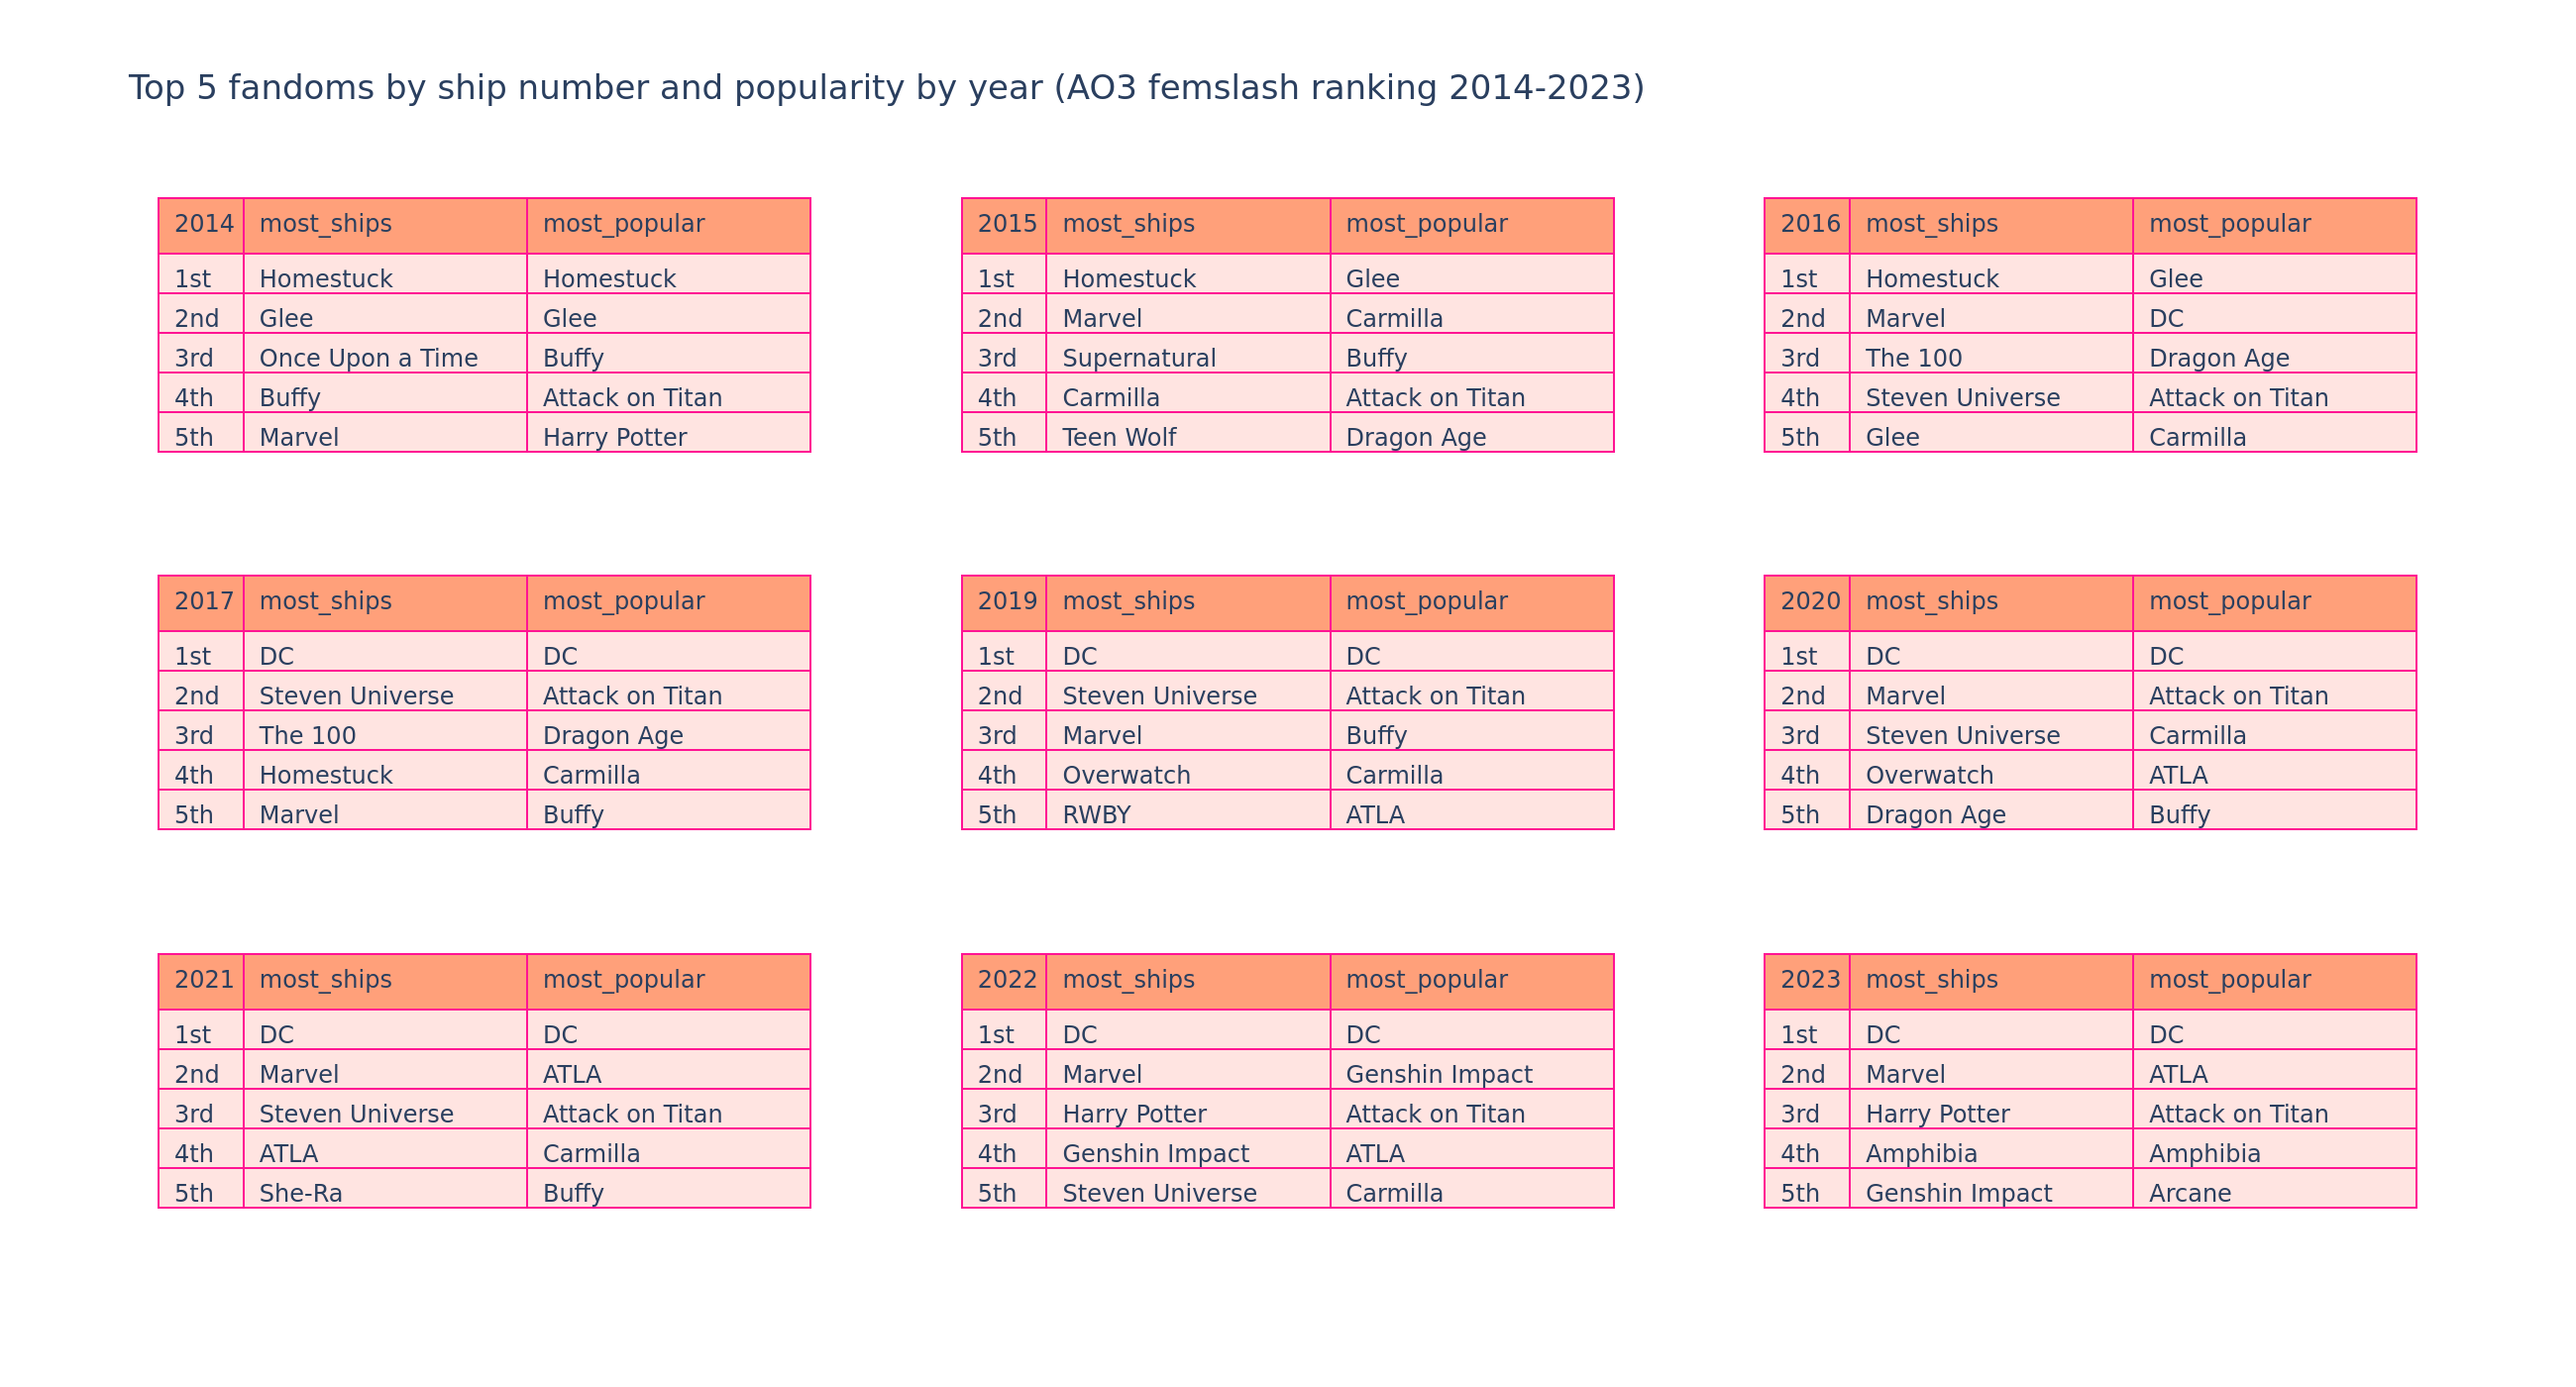
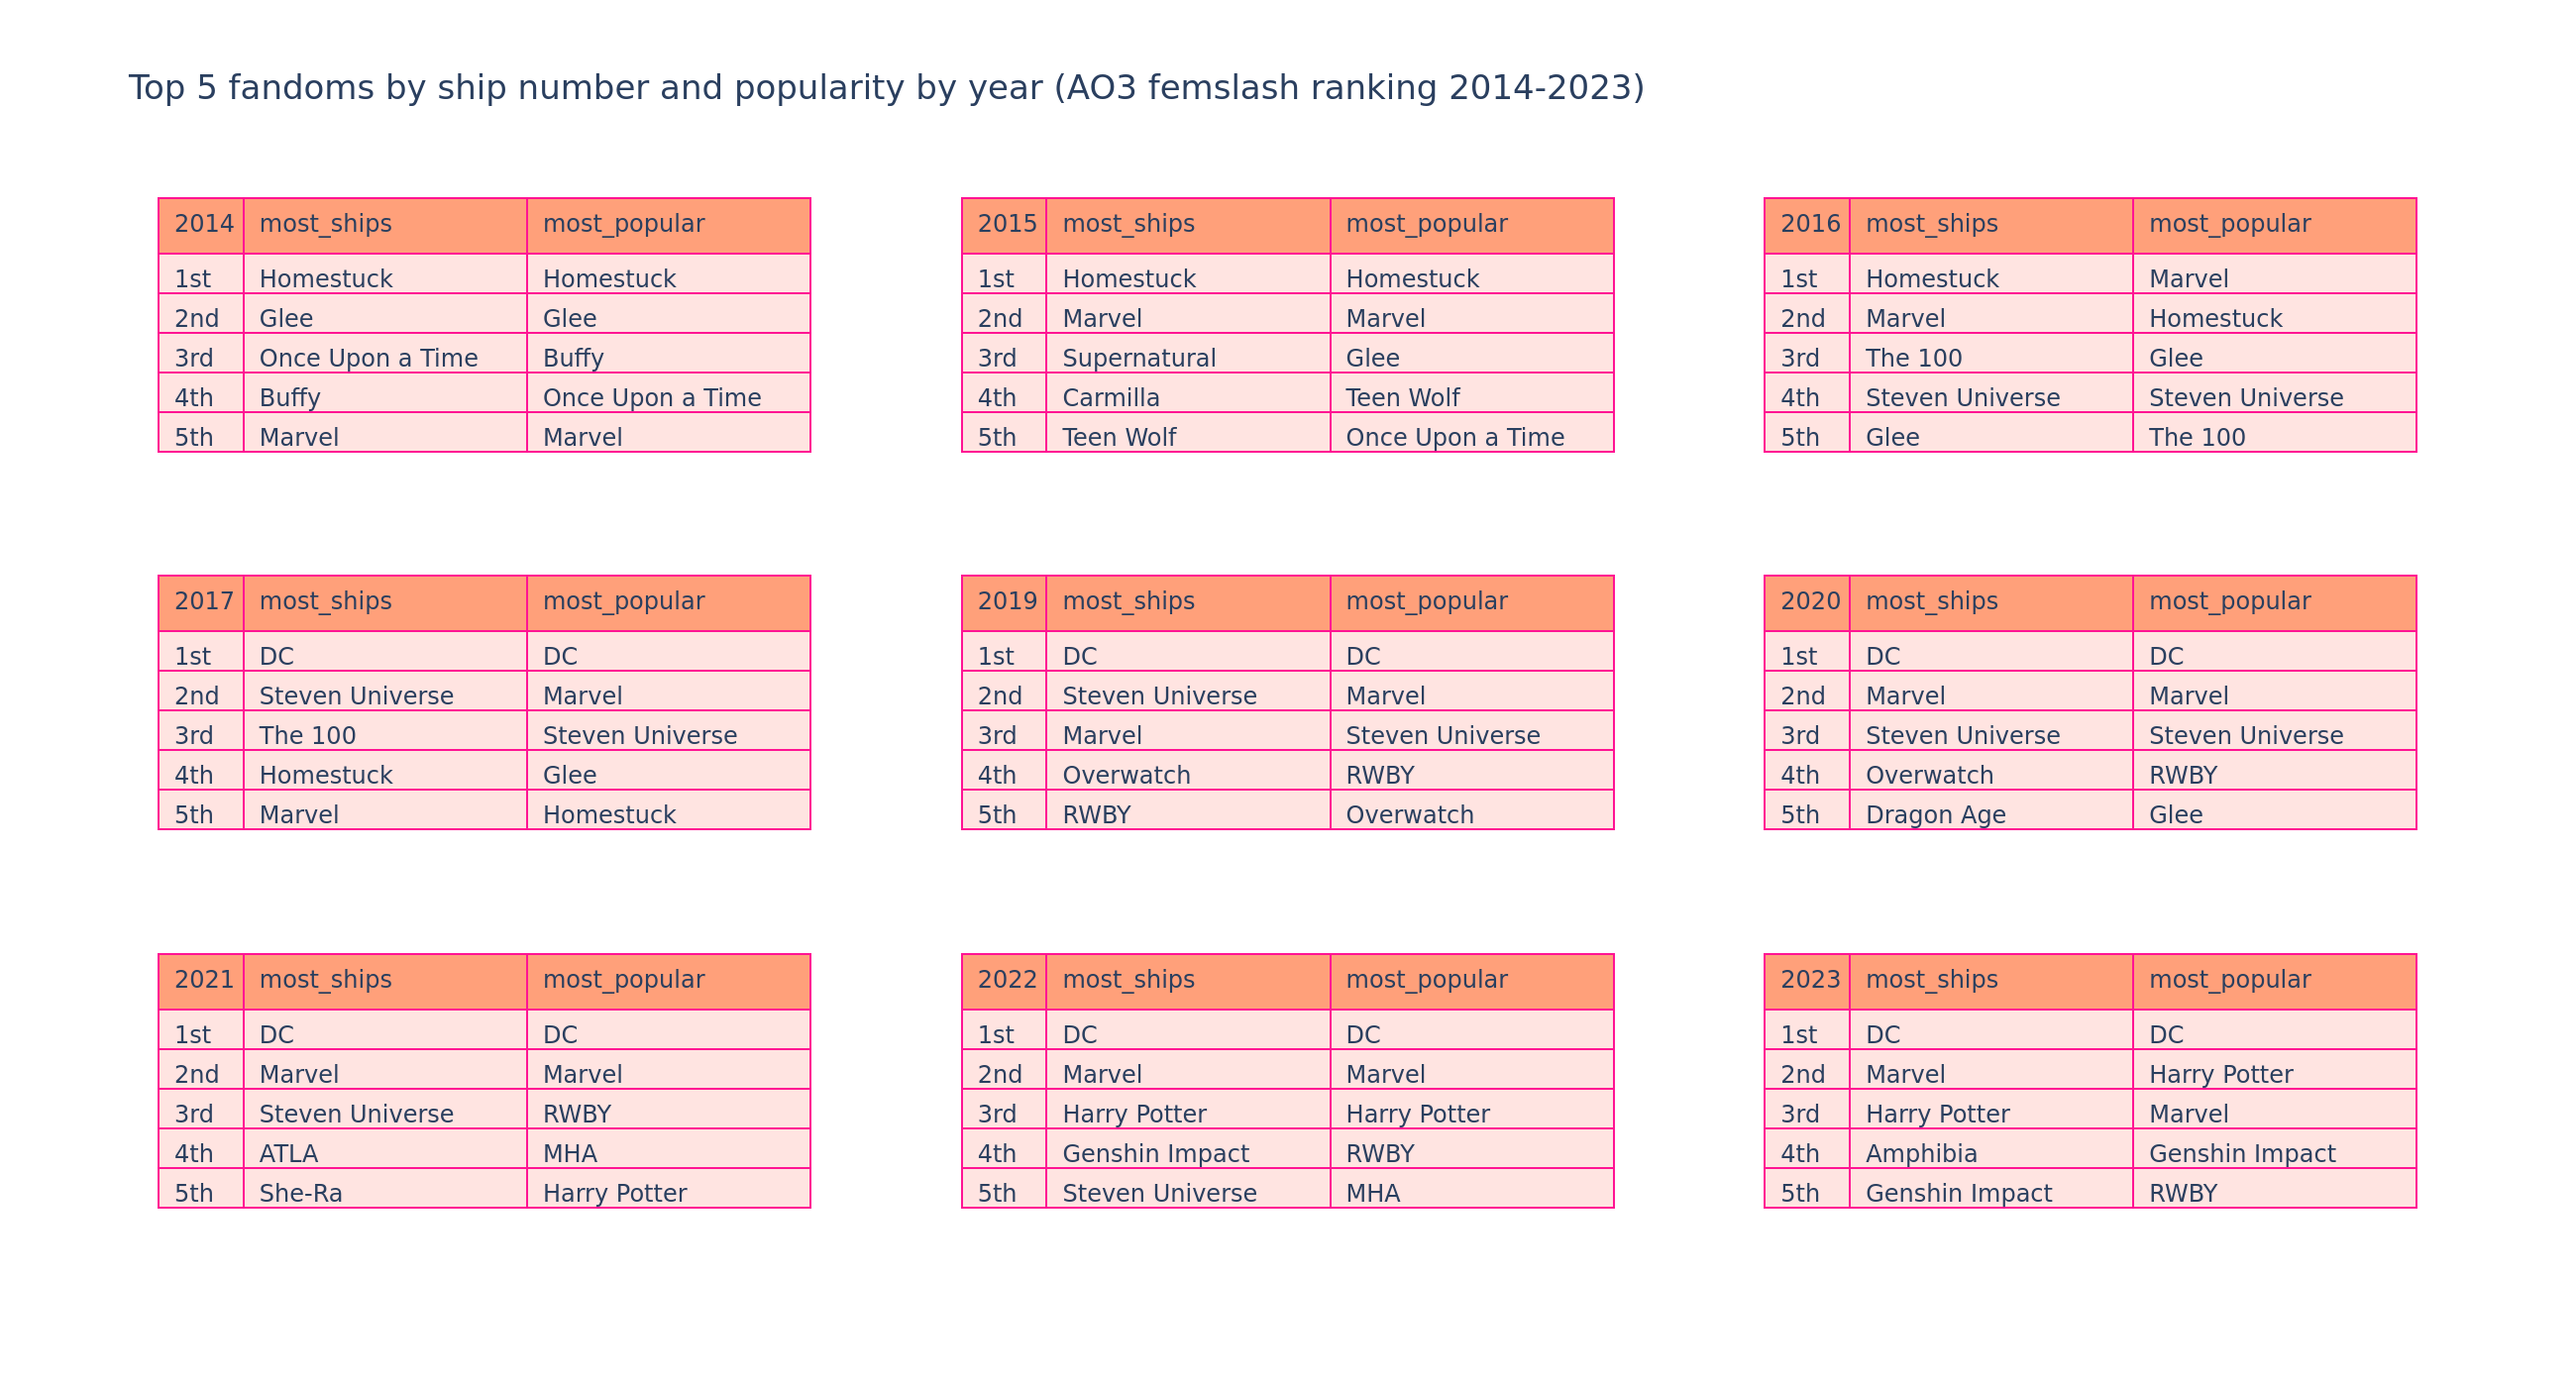
fix order of top fandoms by popularity smh

diff --git a/visualisation/ao3_femslash_rankings_2014_2023/vis_femslash_ranking_general_stat_code.py b/visualisation/ao3_femslash_rankings_2014_2023/vis_femslash_ranking_general_stat_code.py
@@ -47,7 +47,7 @@ def fandoms_popularity_by_year(ship_info_df):
         ).groupby("fandom").agg("sum").rename(
             columns={"rank_no": "rank_sum"}
         )
-        year_df = year_df.head(15).sort_values(by="rank_sum", ascending=False)#.dropna()
+        year_df = year_df.sort_values(by="rank_sum", ascending=False).head(15)#.dropna()
         year_df["year"] = year
         year_dict[int(year)] = year_df
 
